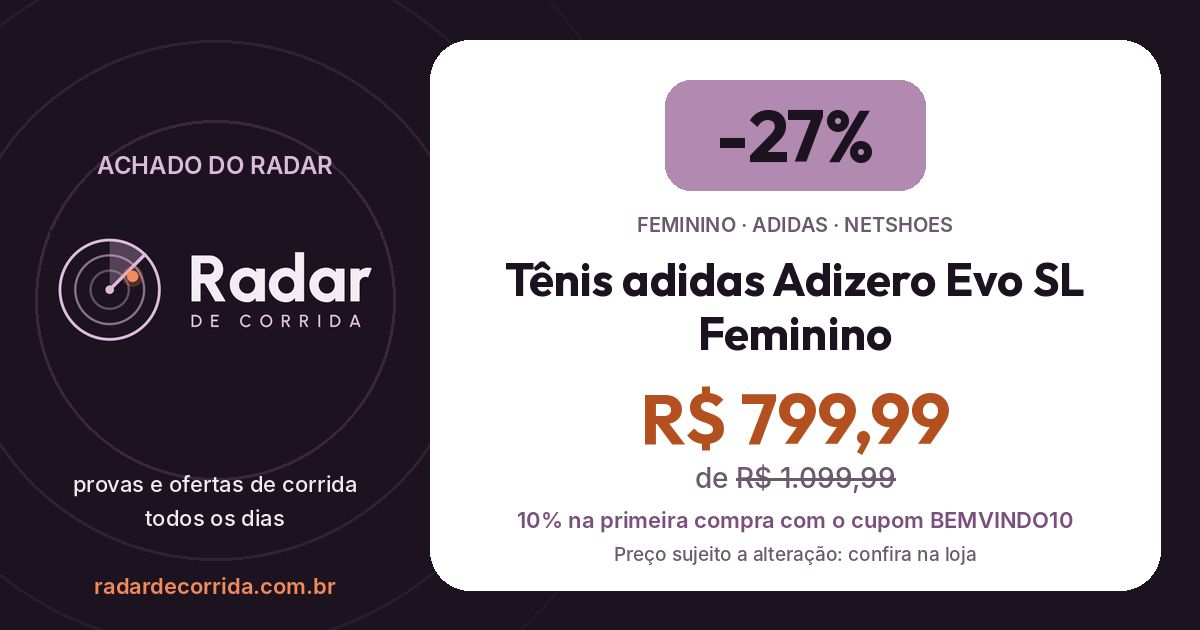
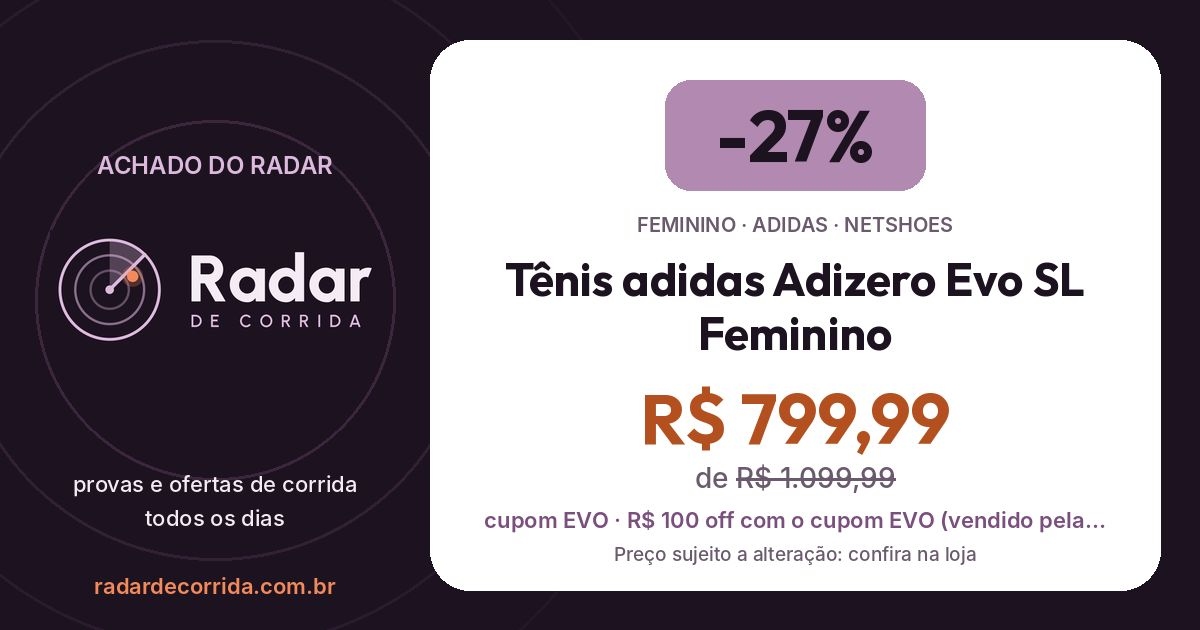
Atualiza achados 2026-11-28 14h25
Claude-Session: https://claude.ai/code/session_014NaFVkZ4UfZcuX5rtS76a9

Changed region(s): [[0.4008, 0.8143, 0.925, 0.8444]]

diff --git a/tenis/asics-tenis-asics-superblast-3-unissex-unissex/index.html b/tenis/asics-tenis-asics-superblast-3-unissex-unissex/index.html
@@ -1,0 +1,40 @@
+<!doctype html>
+<html lang="pt-BR">
+<head>
+<meta charset="utf-8">
+<meta name="viewport" content="width=device-width,initial-scale=1">
+<title>Tênis Asics Superblast 3 Unissex por R$ 1.349,90 (-21%) · Radar de Corrida</title>
+<meta name="description" content="Unissex · de R$ 1.699,90 por R$ 1.349,90 na Netshoes (cupom BLACK40 · R$ 1.113,41 no Pix com o cupom BLACK40 (R$ 1.309,90 no cartão); vendido pela Trilha Sports na Netshoes). Achado no Radar de Corrida da Aline.">
+<meta name="robots" content="noindex,follow">
+<link rel="canonical" href="https://radardecorrida.com.br/tenis/asics-tenis-asics-superblast-3-unissex-unissex/">
+<meta property="og:type" content="website">
+<meta property="og:locale" content="pt_BR">
+<meta property="og:site_name" content="Radar de Corrida da Aline">
+<meta property="og:title" content="Tênis Asics Superblast 3 Unissex por R$ 1.349,90 (-21%)">
+<meta property="og:description" content="Unissex · de R$ 1.699,90 por R$ 1.349,90 na Netshoes (cupom BLACK40 · R$ 1.113,41 no Pix com o cupom BLACK40 (R$ 1.309,90 no cartão); vendido pela Trilha Sports na Netshoes). Achado no Radar de Corrida da Aline.">
+<meta property="og:url" content="https://radardecorrida.com.br/tenis/asics-tenis-asics-superblast-3-unissex-unissex/">
+<meta property="og:image" content="https://radardecorrida.com.br/og/tenis-asics-tenis-asics-superblast-3-unissex-unissex.jpg">
+<meta property="og:image:secure_url" content="https://radardecorrida.com.br/og/tenis-asics-tenis-asics-superblast-3-unissex-unissex.jpg">
+<meta property="og:image:type" content="image/jpeg">
+<meta property="og:image:width" content="1200">
+<meta property="og:image:height" content="630">
+<meta property="og:image:alt" content="Tênis Asics Superblast 3 Unissex por R$ 1.349,90 (-21%)">
+<meta name="twitter:card" content="summary_large_image">
+<meta name="theme-color" content="#BBE3E5">
+<link rel="icon" type="image/png" href="/favicon.png">
+<style>*{box-sizing:border-box}body{margin:0;font-family:"Plus Jakarta Sans",system-ui,-apple-system,"Segoe UI",sans-serif;background:#F6F0F6 linear-gradient(180deg,#BBE3E5 0,#D9C1D9 360px,#F6F0F6 720px) no-repeat;color:#1D1220;padding:24px 16px 40px}.c{max-width:560px;margin:0 auto;display:flex;flex-direction:column;gap:14px}img{width:100%;height:auto;border-radius:18px;display:block}h1{font:800 28px/1.1 system-ui,sans-serif;margin:0}p{margin:0;color:#6B5A6E}a.b{display:block;text-align:center;padding:13px 18px;border-radius:999px;text-decoration:none;font-weight:700}a.p{background:#B28AB1;color:#1D1220}a.s{background:#fff;color:#7A4E7D;border:1.5px solid #B28AB1}.x{text-align:center;font-size:14px}.x a{color:#7A4E7D}.n{background:#FFF0DC;color:#9A5B00;padding:10px 14px;border-radius:14px;font-weight:600}</style>
+
+<script>if(/[?&]c=1(&|$)/.test(location.search))location.replace("/"+location.search+"#tenis=asics-tenis-asics-superblast-3-unissex-unissex");</script>
+</head>
+<body>
+<main class="c">
+
+<img src="/og/tenis-asics-tenis-asics-superblast-3-unissex-unissex.jpg" alt="Tênis Asics Superblast 3 Unissex por R$ 1.349,90 (-21%)" width="1200" height="630">
+<h1>Tênis Asics Superblast 3 Unissex por R$ 1.349,90 (-21%)</h1>
+<p>Unissex · de R$ 1.699,90 por R$ 1.349,90 na Netshoes (cupom BLACK40 · R$ 1.113,41 no Pix com o cupom BLACK40 (R$ 1.309,90 no cartão); vendido pela Trilha Sports na Netshoes). Achado no Radar de Corrida da Aline.</p>
+<a class="b p" href="/#tenis=asics-tenis-asics-superblast-3-unissex-unissex">Ver no Radar de Corrida da Aline</a>
+<a class="b s" href="https://click.linksynergy.com/deeplink?id=7KhHq5G3aIo&amp;mid=43984&amp;murl=https%3A%2F%2Fwww.netshoes.com.br%2Fp%2Ftenis-asics-superblast-3-unissex-SG4-02M9-026" target="_blank" rel="noopener">Ver na loja</a>
+<p class="x"><a href="/calculadora-de-pace/">Calcule seu pace e a previsão de tempo para a prova</a></p>
+</main>
+</body>
+</html>

diff --git a/tenis/adidas-tenis-adidas-adizero-evo-sl-masculino-masculino/index.html b/tenis/adidas-tenis-adidas-adizero-evo-sl-masculino-masculino/index.html
@@ -4,14 +4,14 @@
 <meta charset="utf-8">
 <meta name="viewport" content="width=device-width,initial-scale=1">
 <title>Tênis adidas Adizero Evo SL Masculino por R$ 799,99 (-27%) · Radar de Corrida</title>
-<meta name="description" content="Masculino · de R$ 1.099,99 por R$ 799,99 na Netshoes (10% na primeira compra com o cupom BEMVINDO10). Achado no Radar de Corrida da Aline.">
+<meta name="description" content="Masculino · de R$ 1.099,99 por R$ 799,99 na Netshoes (cupom EVO · R$ 100 off com o cupom EVO (vendido pela Netshoes; até 29/11, compras acima de R$ 400)). Achado no Radar de Corrida da Aline.">
 <meta name="robots" content="noindex,follow">
 <link rel="canonical" href="https://radardecorrida.com.br/tenis/adidas-tenis-adidas-adizero-evo-sl-masculino-masculino/">
 <meta property="og:type" content="website">
 <meta property="og:locale" content="pt_BR">
 <meta property="og:site_name" content="Radar de Corrida da Aline">
 <meta property="og:title" content="Tênis adidas Adizero Evo SL Masculino por R$ 799,99 (-27%)">
-<meta property="og:description" content="Masculino · de R$ 1.099,99 por R$ 799,99 na Netshoes (10% na primeira compra com o cupom BEMVINDO10). Achado no Radar de Corrida da Aline.">
+<meta property="og:description" content="Masculino · de R$ 1.099,99 por R$ 799,99 na Netshoes (cupom EVO · R$ 100 off com o cupom EVO (vendido pela Netshoes; até 29/11, compras acima de R$ 400)). Achado no Radar de Corrida da Aline.">
 <meta property="og:url" content="https://radardecorrida.com.br/tenis/adidas-tenis-adidas-adizero-evo-sl-masculino-masculino/">
 <meta property="og:image" content="https://radardecorrida.com.br/og/tenis-adidas-tenis-adidas-adizero-evo-sl-masculino-masculino.jpg">
 <meta property="og:image:secure_url" content="https://radardecorrida.com.br/og/tenis-adidas-tenis-adidas-adizero-evo-sl-masculino-masculino.jpg">
@@ -31,7 +31,7 @@
 
 <img src="/og/tenis-adidas-tenis-adidas-adizero-evo-sl-masculino-masculino.jpg" alt="Tênis adidas Adizero Evo SL Masculino por R$ 799,99 (-27%)" width="1200" height="630">
 <h1>Tênis adidas Adizero Evo SL Masculino por R$ 799,99 (-27%)</h1>
-<p>Masculino · de R$ 1.099,99 por R$ 799,99 na Netshoes (10% na primeira compra com o cupom BEMVINDO10). Achado no Radar de Corrida da Aline.</p>
+<p>Masculino · de R$ 1.099,99 por R$ 799,99 na Netshoes (cupom EVO · R$ 100 off com o cupom EVO (vendido pela Netshoes; até 29/11, compras acima de R$ 400)). Achado no Radar de Corrida da Aline.</p>
 <a class="b p" href="/#tenis=adidas-tenis-adidas-adizero-evo-sl-masculino-masculino">Ver no Radar de Corrida da Aline</a>
 <a class="b s" href="https://click.linksynergy.com/deeplink?id=7KhHq5G3aIo&amp;mid=43984&amp;murl=https%3A%2F%2Fwww.netshoes.com.br%2Fp%2Ftenis-adidas-adizero-evo-sl-masculino-FBA-86ET-304" target="_blank" rel="noopener">Ver na loja</a>
 <p class="x"><a href="/calculadora-de-pace/">Calcule seu pace e a previsão de tempo para a prova</a></p>

diff --git a/tenis/adidas-tenis-adidas-adizero-evo-sl-feminino-feminino/index.html b/tenis/adidas-tenis-adidas-adizero-evo-sl-feminino-feminino/index.html
@@ -4,14 +4,14 @@
 <meta charset="utf-8">
 <meta name="viewport" content="width=device-width,initial-scale=1">
 <title>Tênis adidas Adizero Evo SL Feminino por R$ 799,99 (-27%) · Radar de Corrida</title>
-<meta name="description" content="Feminino · de R$ 1.099,99 por R$ 799,99 na Netshoes (10% na primeira compra com o cupom BEMVINDO10). Achado no Radar de Corrida da Aline.">
+<meta name="description" content="Feminino · de R$ 1.099,99 por R$ 799,99 na Netshoes (cupom EVO · R$ 100 off com o cupom EVO (vendido pela Netshoes; até 29/11, compras acima de R$ 400)). Achado no Radar de Corrida da Aline.">
 <meta name="robots" content="noindex,follow">
 <link rel="canonical" href="https://radardecorrida.com.br/tenis/adidas-tenis-adidas-adizero-evo-sl-feminino-feminino/">
 <meta property="og:type" content="website">
 <meta property="og:locale" content="pt_BR">
 <meta property="og:site_name" content="Radar de Corrida da Aline">
 <meta property="og:title" content="Tênis adidas Adizero Evo SL Feminino por R$ 799,99 (-27%)">
-<meta property="og:description" content="Feminino · de R$ 1.099,99 por R$ 799,99 na Netshoes (10% na primeira compra com o cupom BEMVINDO10). Achado no Radar de Corrida da Aline.">
+<meta property="og:description" content="Feminino · de R$ 1.099,99 por R$ 799,99 na Netshoes (cupom EVO · R$ 100 off com o cupom EVO (vendido pela Netshoes; até 29/11, compras acima de R$ 400)). Achado no Radar de Corrida da Aline.">
 <meta property="og:url" content="https://radardecorrida.com.br/tenis/adidas-tenis-adidas-adizero-evo-sl-feminino-feminino/">
 <meta property="og:image" content="https://radardecorrida.com.br/og/tenis-adidas-tenis-adidas-adizero-evo-sl-feminino-feminino.jpg">
 <meta property="og:image:secure_url" content="https://radardecorrida.com.br/og/tenis-adidas-tenis-adidas-adizero-evo-sl-feminino-feminino.jpg">
@@ -31,7 +31,7 @@
 
 <img src="/og/tenis-adidas-tenis-adidas-adizero-evo-sl-feminino-feminino.jpg" alt="Tênis adidas Adizero Evo SL Feminino por R$ 799,99 (-27%)" width="1200" height="630">
 <h1>Tênis adidas Adizero Evo SL Feminino por R$ 799,99 (-27%)</h1>
-<p>Feminino · de R$ 1.099,99 por R$ 799,99 na Netshoes (10% na primeira compra com o cupom BEMVINDO10). Achado no Radar de Corrida da Aline.</p>
+<p>Feminino · de R$ 1.099,99 por R$ 799,99 na Netshoes (cupom EVO · R$ 100 off com o cupom EVO (vendido pela Netshoes; até 29/11, compras acima de R$ 400)). Achado no Radar de Corrida da Aline.</p>
 <a class="b p" href="/#tenis=adidas-tenis-adidas-adizero-evo-sl-feminino-feminino">Ver no Radar de Corrida da Aline</a>
 <a class="b s" href="https://click.linksynergy.com/deeplink?id=7KhHq5G3aIo&amp;mid=43984&amp;murl=https%3A%2F%2Fwww.netshoes.com.br%2Fp%2Ftenis-adidas-adizero-evo-sl-feminino-FBA-83DL-054" target="_blank" rel="noopener">Ver na loja</a>
 <p class="x"><a href="/calculadora-de-pace/">Calcule seu pace e a previsão de tempo para a prova</a></p>

diff --git a/index.html b/index.html
@@ -1245,9 +1245,12 @@ section h2{font:800 22px/1 var(--display);margin:8px 0 10px}
    "link": "https://www.netshoes.com.br/p/tenis-adidas-adizero-evo-sl-masculino-FBA-86ET-304",
    "categoria": "Tênis",
    "genero": "Masculino",
-   "condicao": "10% na primeira compra com o cupom BEMVINDO10",
+   "condicao": "R$ 100 off com o cupom EVO (vendido pela Netshoes; até 29/11, compras acima de R$ 400)",
    "foto": "https://static.netshoes.com.br/produtos/tenis-adidas-adizero-evo-sl-masculino/04/FBA-86ET-304/FBA-86ET-304_zoom1.jpg",
-   "modalidade": "Corrida"
+   "modalidade": "Corrida",
+   "cupom": "EVO",
+   "preco_final": 699.99,
+   "black": true
   },
   {
    "loja": "Netshoes",
@@ -1258,9 +1261,12 @@ section h2{font:800 22px/1 var(--display);margin:8px 0 10px}
    "link": "https://www.netshoes.com.br/p/tenis-adidas-adizero-evo-sl-feminino-FBA-83DL-054",
    "categoria": "Tênis",
    "genero": "Feminino",
-   "condicao": "10% na primeira compra com o cupom BEMVINDO10",
+   "condicao": "R$ 100 off com o cupom EVO (vendido pela Netshoes; até 29/11, compras acima de R$ 400)",
    "foto": "https://static.netshoes.com.br/produtos/tenis-adidas-adizero-evo-sl-feminino/54/FBA-83DL-054/FBA-83DL-054_zoom1.jpg",
-   "modalidade": "Corrida"
+   "modalidade": "Corrida",
+   "cupom": "EVO",
+   "preco_final": 699.99,
+   "black": true
   },
   {
    "loja": "Netshoes",
@@ -2885,6 +2891,22 @@ section h2{font:800 22px/1 var(--display);margin:8px 0 10px}
    "black": true,
    "desde": "2026-11-20",
    "conferido": "2026-11-28"
+  },
+  {
+   "loja": "Netshoes",
+   "nome": "Tênis Asics Superblast 3 Unissex",
+   "marca": "Asics",
+   "preco": 1349.9,
+   "de": 1699.9,
+   "link": "https://www.netshoes.com.br/p/tenis-asics-superblast-3-unissex-SG4-02M9-026",
+   "categoria": "Tênis",
+   "genero": "Unissex",
+   "cupom": "BLACK40",
+   "preco_final": 1113.41,
+   "condicao": "R$ 1.113,41 no Pix com o cupom BLACK40 (R$ 1.309,90 no cartão); vendido pela Trilha Sports na Netshoes",
+   "foto": "https://static.netshoes.com.br/produtos/tenis-asics-superblast-3-unissex/26/SG4-02M9-026/SG4-02M9-026_zoom1.jpg",
+   "black": true,
+   "modalidade": "Corrida"
   }
  ],
  "provas": [
@@ -17865,7 +17887,7 @@ section h2{font:800 22px/1 var(--display);margin:8px 0 10px}
    }
   ]
  },
- "ofertas_atualizado": "2026-11-28T08:54:39-03:00",
+ "ofertas_atualizado": "2026-11-28T14:25:00-03:00",
  "treino_em_breve": true,
  "destaques": [
   {
